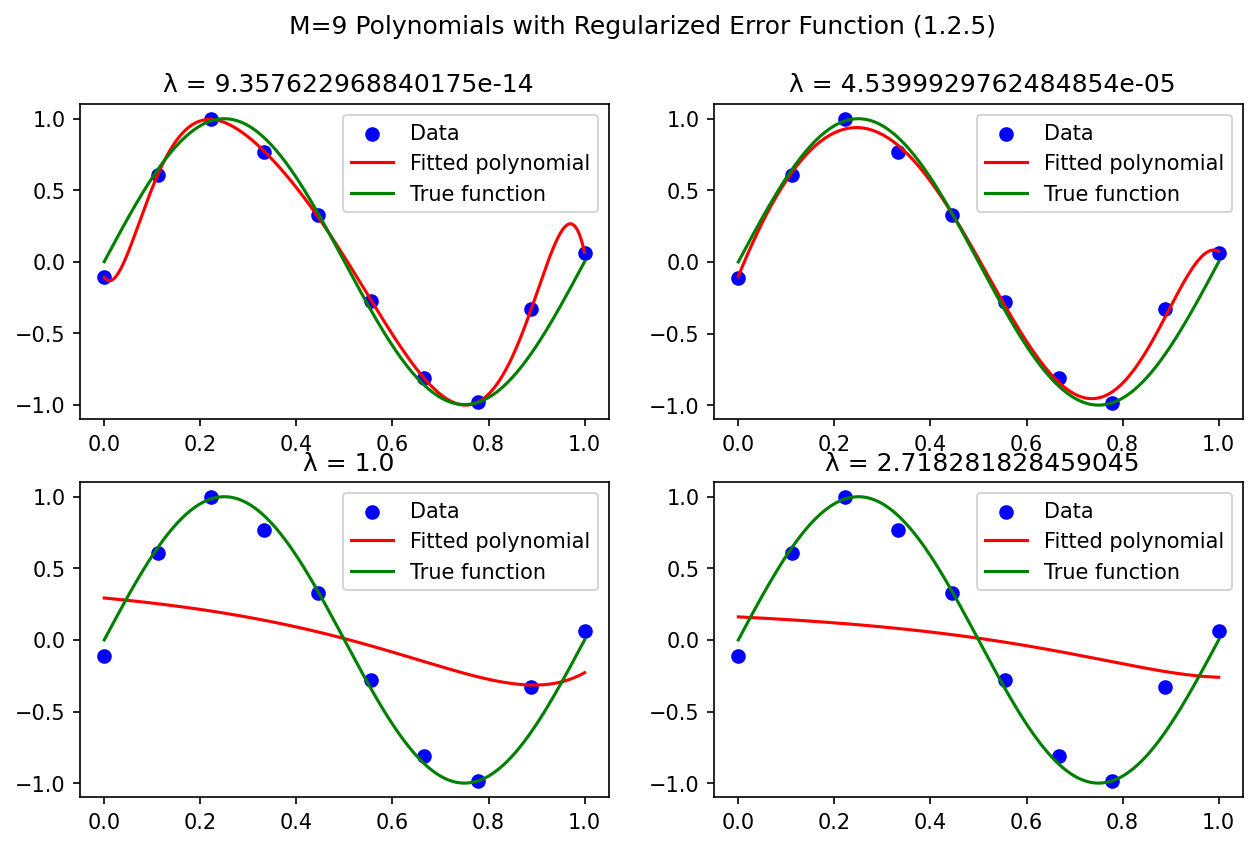
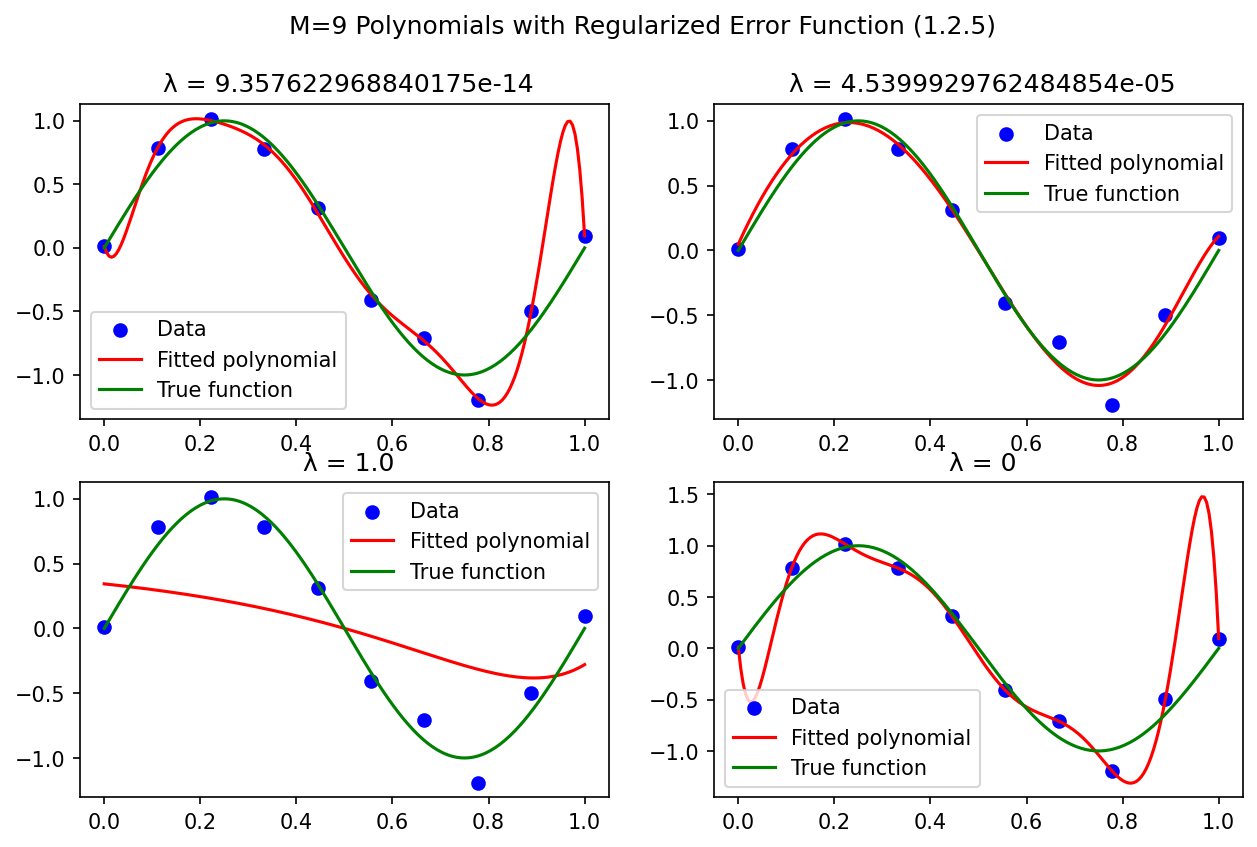
fixed lambda =0 not plotting properly, and changed noise when generating test sets so the error plots are more apt now

diff --git a/chapter_1/1.2-polynomial-fitting.py b/chapter_1/1.2-polynomial-fitting.py
@@ -102,7 +102,7 @@ plt.close()
 # Previously used inbuilt function np.polyfit to fit polynomials.
 # Now defining an error function to quantify the fit quality, so we can find the best weights ourselves.
 
-def E(w):
+def E(w, x_n, t_n):
     """Compute sum of squares of displacements of each data point from the function y."""
     return 0.5 * np.sum((y(x_n,w) - t_n) ** 2)
 
@@ -111,7 +111,7 @@ def E(w):
 # Because the error function is a quadratic function of the coefficients w, its derivatives with respect to the coefficients will be linear in the elements of w, and so the minimization of the error function has a unique solution, denoted by w*. The resulting polynomial is given by the function y(x, w*).
 
 # custom minimization of the error function to find optimal weights
-def minimize_error_function(M):
+def minimize_error_function(M, x_n, t_n):
     """Minimize the error function E to find optimal weights w* for polynomial of degree M."""
     A = np.zeros((M + 1, M + 1))
     b = np.zeros(M + 1)
@@ -123,18 +123,18 @@ def minimize_error_function(M):
     return w_star
 
 # using custom gradient descent function
-def gradE(w):
+def gradE(w, x_n, t_n):
     """Compute gradient of the error function E with respect to weights w."""
     grad = np.zeros_like(w)
     for i in range(len(w)):
         grad[i] = np.sum((y(x_n, w) - t_n) * (x_n ** i))
     return grad
 
-def gradient_descent(M, eta=10, steps=1000):
+def gradient_descent(M, x_n, t_n, eta=0.001, steps=1000):
     """Perform gradient descent to minimize the error function E."""
     w = np.zeros(M + 1)  # initial guess for weights
     for step in range(steps):
-        gradient = gradE(w)
+        gradient = gradE(w, x_n, t_n)
         w -= eta * gradient
     return w
 
@@ -148,7 +148,7 @@ for i, M in enumerate(M_range):
     # result = minimize(E, w_0)  # minimize error function
     # w_star = result.x
     # w_star = gradient_descent(M)
-    w_star = minimize_error_function(M)
+    w_star = minimize_error_function(M, x_n, t_n)
     print(f'Optimal weights for degree {M}: {w_star}')
     # plotting the fitted polynomial
     x_grid = np.linspace(0, 1, 200)
@@ -175,7 +175,7 @@ plt.close()
 N_test = 200
 x_n_test = np.linspace(0, 1, N_test)
 t_n_test = np.sin(2 * np.pi * x_n_test)
-t_n_test += np.random.normal(0, 0.1, N_test)
+t_n_test += np.random.normal(0, 0.25, N_test)
 E_train = []
 E_test = []
 
@@ -192,7 +192,7 @@ for M in M_test_range:
     # w_0 = np.zeros(M + 1)  # initial guess for weights
     # result = minimize(E, w_0)  # minimize error function
     # w_star = result.x
-    w_star = minimize_error_function(M)
+    w_star = minimize_error_function(M, x_n, t_n)
     # w_star = gradient_descent(M)
     E_train.append(E_rms(w_star, x_n, t_n))
     E_test.append(E_rms(w_star, x_n_test, t_n_test))
@@ -215,17 +215,17 @@ N_values = [15, 100]
 plt.figure(figsize=(10, 5))
 for j, N in enumerate(N_values):
     print(f'Generating data and fitting polynomial of degree 9 for N={N}')
-    x_n = np.linspace(0, 1, N)
-    t_n = np.sin(2 * np.pi * x_n) + np.random.normal(0, 0.1, N)
+    x_n_large = np.linspace(0, 1, N)
+    t_n_large = np.sin(2 * np.pi * x_n_large) + np.random.normal(0, 0.1, N)
     # w_0 = np.zeros(10)  # initial guess for weights for M=9
     # result = minimize(E, w_0, method='BFGS')  # minimize error function
     # w_star = result.x
-    w_star = minimize_error_function(M=9)
+    w_star = minimize_error_function(M=9, x_n=x_n_large, t_n=t_n_large)
     # w_star = gradient_descent(M=9)
     x_grid = np.linspace(0, 1, 200)
     y_grid = y(x_grid, w_star)
     plt.subplot(1, 2, j + 1)
-    plt.scatter(x_n, t_n, color='blue', label='Data')
+    plt.scatter(x_n_large, t_n_large, color='blue', label='Data')
     plt.plot(x_grid, y_grid, color='red', label='Fitted polynomial')
     plt.plot(x_grid, np.sin(2 * np.pi * x_grid), color='green', label='True function')
     plt.legend()
@@ -246,54 +246,55 @@ for M in M_range:
     # w_0 = np.zeros(M + 1)  # initial guess for weights
     # result = minimize(E, w_0)  # minimize error function
     # w_star = result.x
-    w_star = gradient_descent(M)
+    w_star = minimize_error_function(M, x_n, t_n)
     print(f'Degree {M}: {w_star}')
 
 # Regularization adds a penalty term to the error function to discourage large weights, aka shrinkage methods/weight decay.
 
-def E_reg(w, lam):
+def E_reg(w, lam, x_n, t_n):
     """Compute regularized error function."""
-    return E(w) + (lam / 2) * np.sum(w ** 2)
+    return E(w, x_n, t_n) + (lam / 2) * np.sum(w ** 2)
 
-def gradE_reg(w, lam):
+def gradE_reg(w, lam, x_n, t_n):
     """Compute gradient of the regularized error function."""
-    grad = gradE(w)
+    grad = gradE(w, x_n, t_n)
     grad += lam * w # adding regularization term
     return grad
 
-def gradient_descent_reg(M, lam, eta=0.1, steps=100):
+def gradient_descent_reg(M, lam, x_n, t_n, eta=0.1, steps=100):
     """Perform gradient descent to minimize the regularized error function E_reg."""
     w = np.zeros(M + 1)  # initial guess for weights
     for step in range(steps):
-        gradient = gradE_reg(w, lam)
+        gradient = gradE_reg(w, lam, x_n, t_n)
         w -= eta * gradient
     return w
 
-def minimize_error_function_reg(M, lam):
+def minimize_error_function_reg(M, lam, x_n, t_n):
     """Minimize the regularized error function E_reg to find optimal weights w* for polynomial of degree M."""
-    A = np.zeros((M + 1, M + 1))
-    b = np.zeros(M + 1)
-    for i in range(M + 1):
-        for j in range(M + 1):
-            A[i, j] = np.sum(x_n ** (i + j))
-        A[i, i] += lam  # adding regularization term
-        b[i] = np.sum(t_n * (x_n ** i))
-    w_star = np.linalg.solve(A, b)
-    return w_star
+    if (lam == 0):
+        return minimize_error_function(M, x_n, t_n)
+    else:
+        A = np.zeros((M + 1, M + 1))
+        b = np.zeros(M + 1)
+        for i in range(M + 1):
+            for j in range(M + 1):
+                A[i, j] = np.sum(x_n ** (i + j))
+            A[i, i] += lam  # adding regularization term
+            b[i] = np.sum(t_n * (x_n ** i))
+        w_star = np.linalg.solve(A, b)
+        return w_star
 
 # Plotting M=9 polynomial with different lambda values for regularization
-N=10
-x_n = np.linspace(0, 1, N)
-t_n = np.sin(2 * np.pi * x_n) + np.random.normal(0, 0.1, N)
-lam_values = [np.exp(-30), np.exp(-10), np.exp(0), np.exp(1)]  # lambda values
-plt.figure(figsize=(10, 6))
 print(f"x_n: {x_n}")
+print(f"t_n: {t_n}")
+lam_values = [np.exp(-30), np.exp(-10), np.exp(0), 0]  # lambda values
+plt.figure(figsize=(10, 6))
 for i, lam in enumerate(lam_values):
     print(f'Fitting polynomial (M=9) using regularized error with λ = {lam}')
     # w_0 = np.zeros(10)  # initial guess for weights for M=9
     # result = minimize(E_reg, w_0, args=(lam,))  # minimize regularized error function
     # w_star = result.x
-    w_star = minimize_error_function_reg(M=9, lam=lam)
+    w_star = minimize_error_function_reg(M=9, lam=lam, x_n=x_n, t_n=t_n)
     # w_star = gradient_descent_reg(M=9, lam=lam)
     print(f'Optimal weights for λ = {lam}: {w_star}')
     x_grid = np.linspace(0, 1, 200)
@@ -322,7 +323,7 @@ for ln_lam in ln_lam_range:
     # w_0 = np.zeros(10)  # initial guess for weights for M=9
     # result = minimize(E_reg, w_0, args=(lam,))  # minimize regularized error function
     # w_star = result.x
-    w_star = minimize_error_function_reg(M=9, lam=lam)
+    w_star = minimize_error_function_reg(M=9, lam=lam, x_n=x_n, t_n=t_n)
     # w_star = gradient_descent_reg(M=9, lam=lam)
     E_train_reg.append(E_rms(w_star, x_n, t_n))
     E_test_reg.append(E_rms(w_star, x_n_test, t_n_test))
@@ -396,7 +397,7 @@ for M in M_test_range:
         # w_0 = np.zeros(M + 1)  # initial guess for weights
         # result = minimize(E_reg, w_0, args=(lam,))  # minimize regularized error function
         # w_star = result.x
-        w_star = minimize_error_function_reg(M, lam)
+        w_star = minimize_error_function_reg(M, lam, x_n_val, t_n_val)
         # w_star = gradient_descent_reg(M, lam)
         E_val.append(E_rms(w_star, x_n_val, t_n_val))
         print(f'RMS error for degree {M} with ln λ = {ln_lam} on validation set: {E_val[-1]}')
